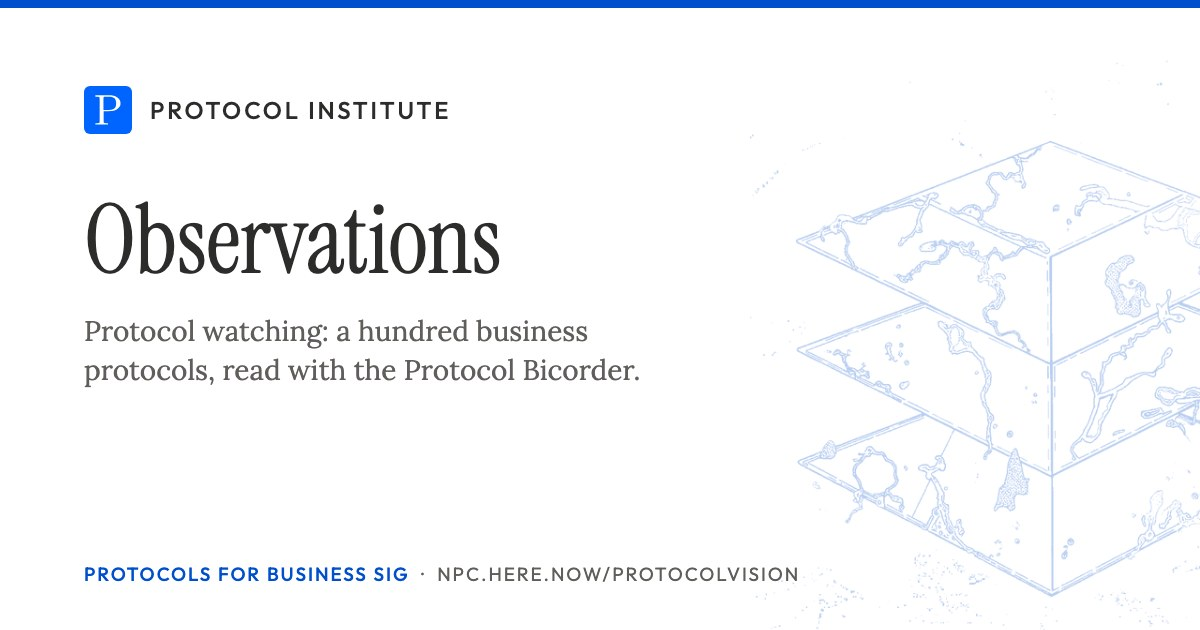
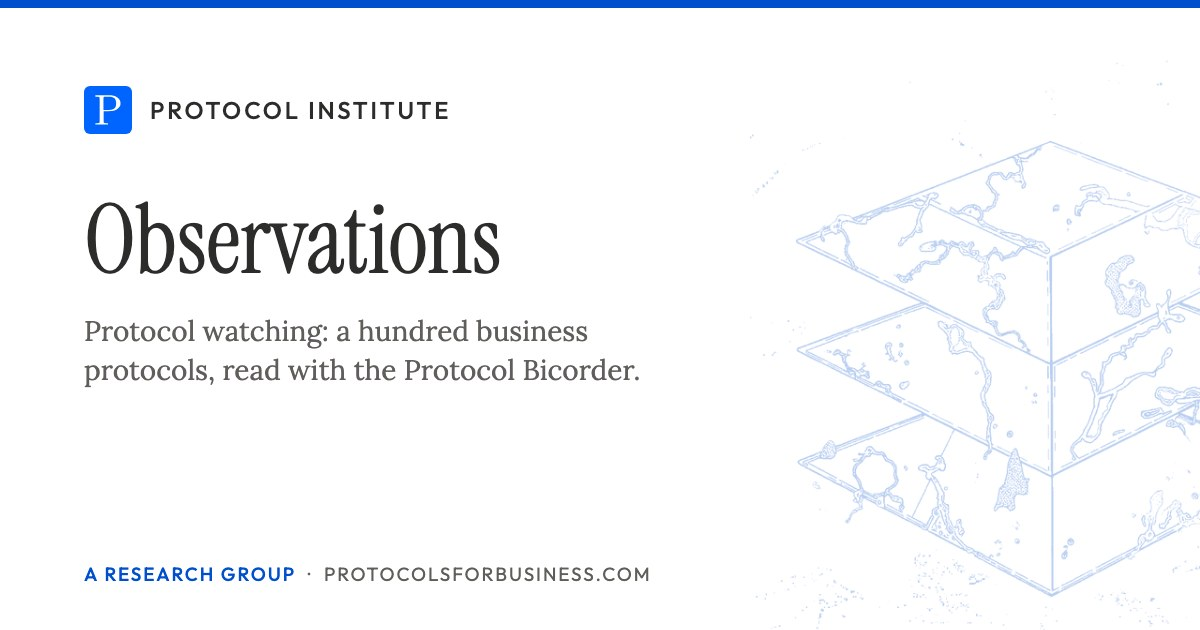
Move to protocolsforbusiness.com: config, Cloudflare site Worker (site/), deploy to Cloudflare plus redirects at the old here.now address, Worker origins, share cards, map data, blyg links

Changed region(s): [[0.0617, 0.8746, 0.6783, 0.9349]]

diff --git a/drafts/landscape/explorer/index.html b/drafts/landscape/explorer/index.html
@@ -64,7 +64,7 @@
     <p>Your AI assistant knows what you’ve read, worked on and talked through. Ask it to suggest readings to add, or readings in the plan to remove, swap or move. Check each change before you confirm it.</p>
     <pre id="llm-prompt">I’m part of the Protocols for Business research group at the Protocol Institute. We’re building a shared map of readings on how businesses coordinate through protocols between people, software and machines. The year’s reading plan has six themes: what agents are in practice; natural coordination; emissions, meaning what systems publish for others to act on; seeing hardness in incidents; designing the hard core; and keeping the core alive, set against business process re-engineering.
 
-Every reading on the map is listed here, and the ones in this year’s plan carry their theme: https://npc.here.now/protocolvision/sessions/map/readings.json
+Every reading on the map is listed here, and the ones in this year’s plan carry their theme: https://protocolsforbusiness.com/sessions/map/readings.json
 
 Use what you know about me: your memory of me, our past conversations, my projects and work, and anything I’ve read, saved or written about. From that context, suggest up to five changes. A change can add a reading the map is missing, remove a reading from the plan, swap a plan reading for a better one, or move a reading to another theme. Prefer primary sources: incident and accident reports, specifications, regulations, original research papers, and first-hand accounts from people who ran systems at scale. Only include sources you’re confident exist, and leave out anything private about me, my employer or other people.
 

diff --git a/sessions/map/3d/index.html b/sessions/map/3d/index.html
@@ -64,7 +64,7 @@
     <p>Your AI assistant knows what you’ve read, worked on and talked through. Ask it to suggest readings to add, or readings in the plan to remove, swap or move. Check each change before you confirm it.</p>
     <pre id="llm-prompt">I’m part of the Protocols for Business research group at the Protocol Institute. We’re building a shared map of readings on how businesses coordinate through protocols between people, software and machines. The year’s reading plan has six themes: what agents are in practice; natural coordination; emissions, meaning what systems publish for others to act on; seeing hardness in incidents; designing the hard core; and keeping the core alive, set against business process re-engineering.
 
-Every reading on the map is listed here, and the ones in this year’s plan carry their theme: https://npc.here.now/protocolvision/sessions/map/readings.json
+Every reading on the map is listed here, and the ones in this year’s plan carry their theme: https://protocolsforbusiness.com/sessions/map/readings.json
 
 Use what you know about me: your memory of me, our past conversations, my projects and work, and anything I’ve read, saved or written about. From that context, suggest up to five changes. A change can add a reading the map is missing, remove a reading from the plan, swap a plan reading for a better one, or move a reading to another theme. Prefer primary sources: incident and accident reports, specifications, regulations, original research papers, and first-hand accounts from people who ran systems at scale. Only include sources you’re confident exist, and leave out anything private about me, my employer or other people.
 

diff --git a/worker/src/index.ts b/worker/src/index.ts
@@ -1,5 +1,5 @@
 /**
- * sig-p4b-signup — session sign-ups for npc.here.now/protocolvision
+ * sig-p4b-signup — session sign-ups for protocolsforbusiness.com
  *
  * Stores name, email, affiliation, website, GitHub and Discord handles in KV so the facilitators can export
  * the list and send reading prep before each session.
@@ -38,8 +38,10 @@ interface Signup {
 }
 
 // Defaults; a deployment overrides them with SITE and ALLOWED_ORIGINS in wrangler.jsonc "vars".
-let SITE = "https://npc.here.now/protocolvision/";
+let SITE = "https://protocolsforbusiness.com/";
 let ALLOWED_ORIGINS = [
+  "https://protocolsforbusiness.com",
+  "https://www.protocolsforbusiness.com",
   "https://npc.here.now",
   "https://scarlet-rapids-8mbp.here.now",
   "http://localhost:8000",

diff --git a/tools/cards/home.html b/tools/cards/home.html
@@ -15,5 +15,5 @@ p{font-size:28px;line-height:1.4;color:#5f5e5a;margin:0;max-width:600px}
 <div class="art"></div>
 <div class="wrap"><div class="brand"><img src="../../favicon.svg" alt="">Protocol Institute</div>
 <h1>Protocols for Business</h1><p>AI-native data operations, and the organizations that come after the platform.</p></div>
-<div class="foot"><b>A research group</b> &nbsp;·&nbsp; npc.here.now/protocolvision</div>
+<div class="foot"><b>A research group</b> &nbsp;·&nbsp; protocolsforbusiness.com</div>
 </body></html>

diff --git a/tools/cards/observations.html b/tools/cards/observations.html
@@ -15,5 +15,5 @@ p{font-size:28px;line-height:1.4;color:#5f5e5a;margin:0;max-width:600px}
 <div class="art"></div>
 <div class="wrap"><div class="brand"><img src="../../favicon.svg" alt="">Protocol Institute</div>
 <h1>Observations</h1><p>Protocol watching: a hundred business protocols, read with the Protocol Bicorder.</p></div>
-<div class="foot"><b>A research group</b> &nbsp;·&nbsp; npc.here.now/protocolvision</div>
+<div class="foot"><b>A research group</b> &nbsp;·&nbsp; protocolsforbusiness.com</div>
 </body></html>

diff --git a/tools/cards/syllabus.html b/tools/cards/syllabus.html
@@ -15,5 +15,5 @@ p{font-size:28px;line-height:1.4;color:#5f5e5a;margin:0;max-width:600px}
 <div class="art"></div>
 <div class="wrap"><div class="brand"><img src="../../favicon.svg" alt="">Protocol Institute</div>
 <h1>Syllabus</h1><p>A year of readings toward the AI-native, post-platform organization.</p></div>
-<div class="foot"><b>A research group</b> &nbsp;·&nbsp; npc.here.now/protocolvision</div>
+<div class="foot"><b>A research group</b> &nbsp;·&nbsp; protocolsforbusiness.com</div>
 </body></html>

diff --git a/tools/cards/case-studies.html b/tools/cards/case-studies.html
@@ -15,5 +15,5 @@ p{font-size:28px;line-height:1.4;color:#5f5e5a;margin:0;max-width:600px}
 <div class="art"></div>
 <div class="wrap"><div class="brand"><img src="../../favicon.svg" alt="">Protocol Institute</div>
 <h1>Case studies</h1><p>One case per participant: data operations that AI is changing.</p></div>
-<div class="foot"><b>A research group</b> &nbsp;·&nbsp; npc.here.now/protocolvision</div>
+<div class="foot"><b>A research group</b> &nbsp;·&nbsp; protocolsforbusiness.com</div>
 </body></html>

diff --git a/site/worker.js b/site/worker.js
@@ -1,0 +1,11 @@
+// protocolsforbusiness.com: serve the built site from ../dist, and send www to the bare domain.
+export default {
+  async fetch(request, env) {
+    const url = new URL(request.url);
+    if (url.hostname === "www.protocolsforbusiness.com") {
+      url.hostname = "protocolsforbusiness.com";
+      return Response.redirect(url.toString(), 301);
+    }
+    return env.ASSETS.fetch(request);
+  },
+};

diff --git a/src/sessions.html b/src/sessions.html
@@ -76,7 +76,7 @@ https://github.com/protocolvision/sig-p4b/issues/new?template=reading-suggestion
  "@context": "https://schema.org",
  "@type": "EventSeries",
  "name": "Protocols for Business sessions",
- "url": "https://npc.here.now/protocolvision/sessions/",
+ "url": "https://protocolsforbusiness.com/sessions/",
  "startDate": "2026-11-02",
  "endDate": "2027-11-01",
  "subEvent": [

diff --git a/blyg-src/threads/site-update-october-2026.md b/blyg-src/threads/site-update-october-2026.md
@@ -6,15 +6,15 @@ generated_model: claude-opus-5-5
 # What changed on the site before kickoff
 
 ::: generated
-The [site](https://npc.here.now/protocolvision/) got simpler and clearer ahead of the first session on 2 November. Here is what changed.
+The [site](https://protocolsforbusiness.com/) got simpler and clearer ahead of the first session on 2 November. Here is what changed.
 
-**Clearer words.** Protocol vision is the capability: seeing the protocols a business actually runs on. Business Protocol Management is the practice: finding the few protocols everything relies on, building them into a hard core, and leaving people and agents free to work around it. The [About page](https://npc.here.now/protocolvision/about/) now says it that way, and our 2027 focus, AI-native data operations, is how we test it.
+**Clearer words.** Protocol vision is the capability: seeing the protocols a business actually runs on. Business Protocol Management is the practice: finding the few protocols everything relies on, building them into a hard core, and leaving people and agents free to work around it. The [About page](https://protocolsforbusiness.com/about/) now says it that way, and our 2027 focus, AI-native data operations, is how we test it.
 
 **A quieter design, with drawings.** The site has three pages, Sessions, Research and About, in one typeface. Line drawings made in code now run through it: a murmuration, agents passing messages, signals spreading, a fault line, a hard core with free edges, and a heartbeat. Each theme has its own.
 
-**A fuller session plan.** On the [Sessions page](https://npc.here.now/protocolvision/sessions/), each theme's drop-down lists its sessions with the date, the reading and what else happens that day. Across the 26 sessions, six host other research groups, six are case study sessions (monthly from May), six are tooling demos of hardness tech and swarm orchestration infrastructure, and six are guest talks. Guests always go first on the agenda. Two themes were renamed: V is now Engineering hardness and VI is Operational liveness.
+**A fuller session plan.** On the [Sessions page](https://protocolsforbusiness.com/sessions/), each theme's drop-down lists its sessions with the date, the reading and what else happens that day. Across the 26 sessions, six host other research groups, six are case study sessions (monthly from May), six are tooling demos of hardness tech and swarm orchestration infrastructure, and six are guest talks. Guests always go first on the agenda. Two themes were renamed: V is now Engineering hardness and VI is Operational liveness.
 
-**Ways to take part.** You can [offer a talk](https://npc.here.now/protocolvision/research/#speak): four guest slots are open, and the first guest talk, on 30 November, is about software designed to run for a thousand years without human help. From the home page you can also ask for advisory help. Both forms post to our Discord channel. You can still [suggest or challenge a reading](https://npc.here.now/protocolvision/sessions/#suggest), and the [reading map](https://npc.here.now/protocolvision/sessions/map/) now lets you zoom into any area.
+**Ways to take part.** You can [offer a talk](https://protocolsforbusiness.com/research/#speak): four guest slots are open, and the first guest talk, on 30 November, is about software designed to run for a thousand years without human help. From the home page you can also ask for advisory help. Both forms post to our Discord channel. You can still [suggest or challenge a reading](https://protocolsforbusiness.com/sessions/#suggest), and the [reading map](https://protocolsforbusiness.com/sessions/map/) now lets you zoom into any area.
 
 Earlier versions of the site are kept as milestones in the [repository](https://github.com/protocolvision/sig-p4b).
 :::

diff --git a/blyg-src/fragments/reading-plan-and-map.md b/blyg-src/fragments/reading-plan-and-map.md
@@ -6,11 +6,11 @@ generated_model: claude-opus-5-5
 **Where we are, end of September 2026.**
 
 ::: generated
-We spent the last few weeks giving the group's practice a name we can test. We call it Business Protocol Management. A business finds the few protocols everything relies on, builds them into its systems as a hard core, and leaves people and agents free to work inside them. The [About page](https://npc.here.now/protocolvision/about/) now says so.
+We spent the last few weeks giving the group's practice a name we can test. We call it Business Protocol Management. A business finds the few protocols everything relies on, builds them into its systems as a hard core, and leaves people and agents free to work inside them. The [About page](https://protocolsforbusiness.com/about/) now says so.
 
-The reading plan changed to match. [Sessions](https://npc.here.now/protocolvision/sessions/) now shows six themes in the order we'll explore them: what agents are in practice, how nature coordinates, what systems emit, how to see hardness in real incidents, how to design the hard core, and how industries keep it alive. Most readings are primary sources from aviation, nuclear power, spaceflight and software operations, with business process re-engineering as the contrast. We still start with the Hugging Face incident on 2 November.
+The reading plan changed to match. [Sessions](https://protocolsforbusiness.com/sessions/) now shows six themes in the order we'll explore them: what agents are in practice, how nature coordinates, what systems emit, how to see hardness in real incidents, how to design the hard core, and how industries keep it alive. Most readings are primary sources from aviation, nuclear power, spaceflight and software operations, with business process re-engineering as the contrast. We still start with the Hugging Face incident on 2 November.
 
-We also built a [reading map](https://npc.here.now/protocolvision/sessions/map/) of 400 readings placed by what they say, with the year's readings marked. It grows with the group. Ask your AI assistant what the map is missing from your own experience, and it can add each reading to GitHub for us to review.
+We also built a [reading map](https://protocolsforbusiness.com/sessions/map/) of 400 readings placed by what they say, with the year's readings marked. It grows with the group. Ask your AI assistant what the map is missing from your own experience, and it can add each reading to GitHub for us to review.
 
-The [Research page](https://npc.here.now/protocolvision/research/) ties our 2027 focus on AI-native data operations to the practice and lists five open questions we'd like help with. By the end of next year we hope the practice will be much more mature, shaped by what we read and build together.
+The [Research page](https://protocolsforbusiness.com/research/) ties our 2027 focus on AI-native data operations to the practice and lists five open questions we'd like help with. By the end of next year we hope the practice will be much more mature, shaped by what we read and build together.
 :::

diff --git a/CLAUDE.md b/CLAUDE.md
@@ -2,7 +2,7 @@
 
 - Quiet, text-first site in the style of personhoodresearchgroup.isthisa.com. Don't add hero sections, cards, JS, or heavy branding.
 - PI brand kit is applied *lightly* through the tokens in `style.css`. Change the tokens rather than adding colors inline.
-- All links must be relative (served at npc.here.now/protocolvision/).
+- All links must be relative (served at protocolsforbusiness.com/).
 - Never name the construction client or give its bid figures. Water case links point to public reports only.
 - After editing, run `./deploy.sh`, then commit and push.
 - Three tracks: readings (perspectives), observations (reps, ~100/yr), case studies (heavy lifts, encouraged for every member). Keep all three pages in sync when changing dates or parts.
@@ -17,5 +17,5 @@
 - `hype/` is a generated parody snapshot (noindex), exported from the local `hype` branch/worktree with `tools/export_hype.sh` there. Never edit it by hand; re-export, then `./deploy.sh`.
 - Speakers and rescheduling: `tools/slots.json` is the only place to edit. Each date has a `feature` (`Guest: Name (talk title)` for a guest, `Open guest slot: offer a talk`, `Tooling demo: …`, `Case study catch-up: …`) and optional `links` (`{"Name": url, "first word of title": url}`). To schedule a speaker, replace an open slot; to reschedule, swap two features. Readings stay on their dates (they follow themes.json order). Then run `tools/build_schedule.py` and `./deploy.sh`: the theme drop-downs, guest lines, next-session box (sessions.json), calendar, JSON-LD and the open-slot count on Research all update together. `hype/` is a separate snapshot and only changes when re-exported.
 - Forms that post to the group's Discord channel (via the Worker's `DISCORD_WEBHOOK` secret, nothing stored): "Offer a talk" (`[data-talk]`, `/talk`) and "Request advisory services" (`[data-advisory]`, `/advisory`). Both are defined in `assets/site.js` with the `inquiry()` helper; add a new one there plus a route in `worker/src/index.ts`, then `npx wrangler deploy` in `worker/`.
-- Session emails: send from Gmail with recipients in BCC, and link the general unsubscribe page https://npc.here.now/protocolvision/unsubscribe/ in the footer. It posts to the Worker's `POST /unsubscribe`. Drafts live in `sources/emails/` (not committed).
+- Session emails: send from Gmail with recipients in BCC, and link the general unsubscribe page https://protocolsforbusiness.com/unsubscribe/ in the footer. It posts to the Worker's `POST /unsubscribe`. Drafts live in `sources/emails/` (not committed).
 - SEO: `tools/build_site.py` adds canonical, breadcrumbs JSON-LD and (with `"noindex": true` in front matter) a robots noindex; `tools/build_sitemap.py` writes `sitemap.xml` and `robots.txt` from `config.json`. Every page needs one H1 and its own `desc`. Domain move steps: README, "Search and the move to a new domain".
